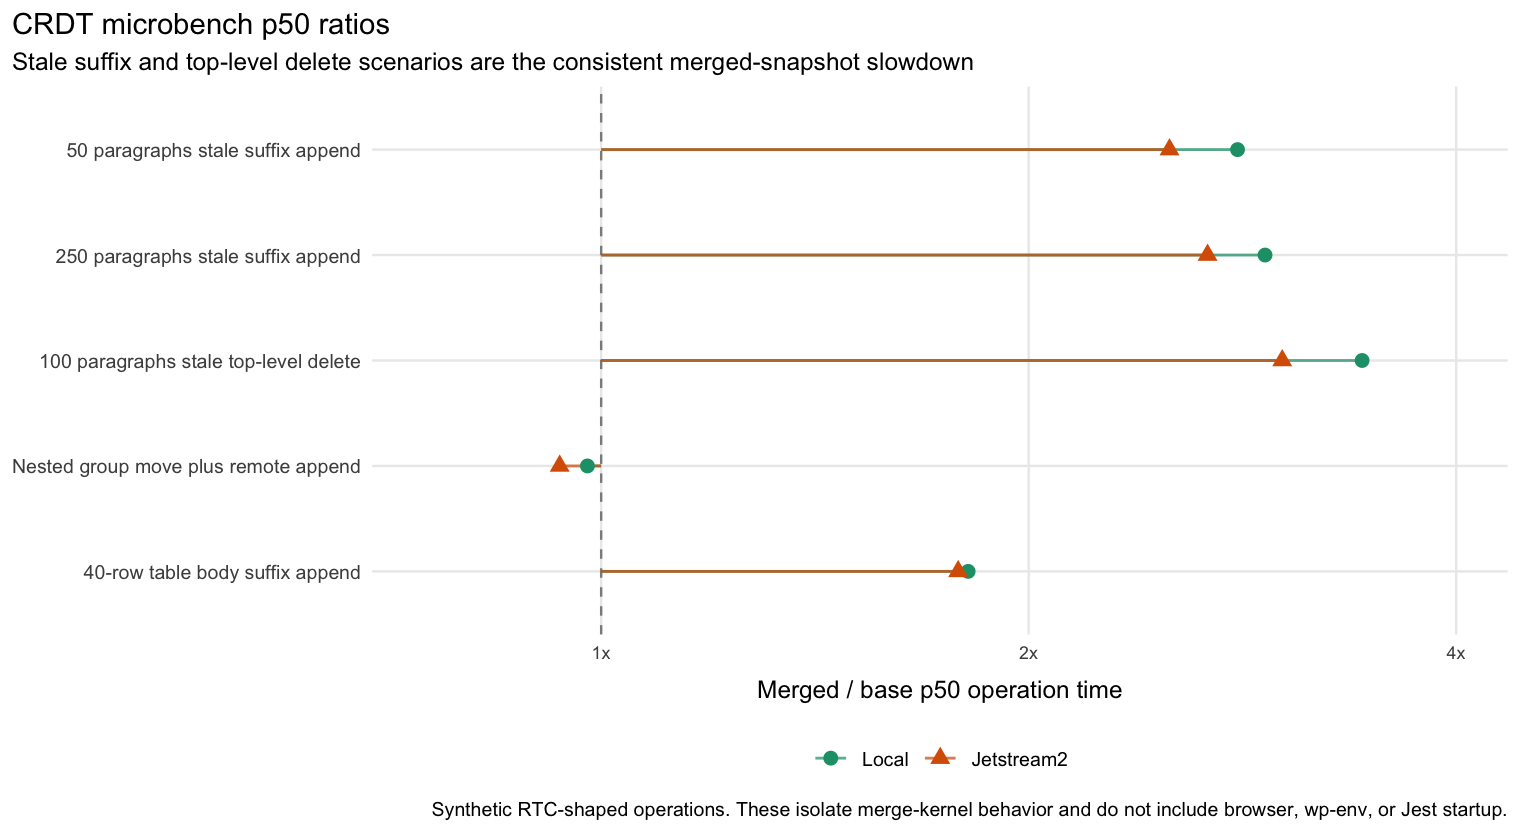
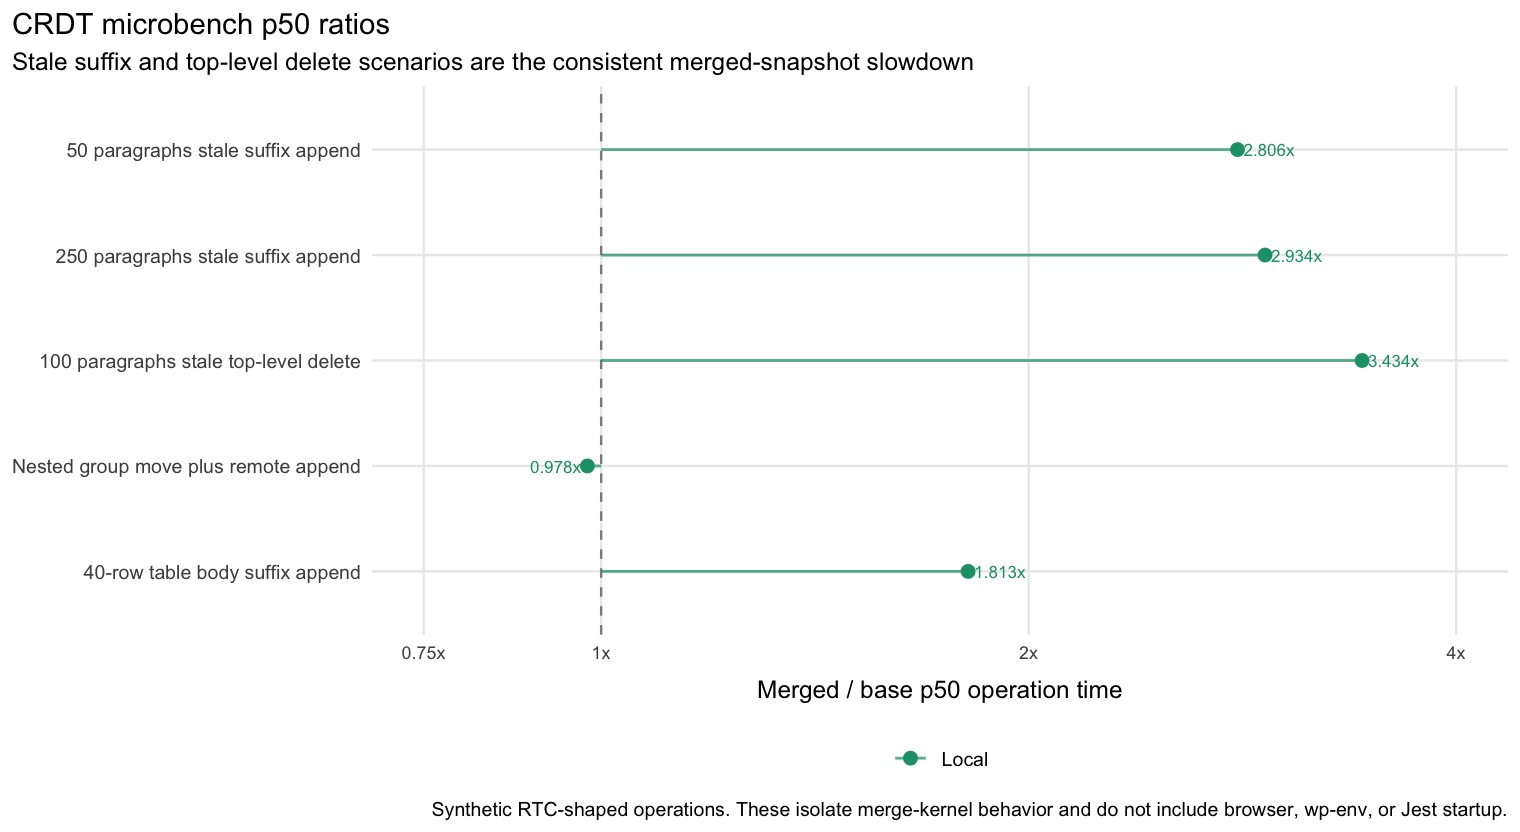
Update RTC benchmark report graphs

diff --git a/docs/explanations/architecture/rtc-local-benchmark-results-20260519.md b/docs/explanations/architecture/rtc-local-benchmark-results-20260519.md
@@ -1,6 +1,6 @@
 # RTC Local Benchmark Results, 2026-05-19
 
-This follows `rtc-less-busy-benchmark-handoff-20260519.md`, but the local run does not preserve Jetstream2's weaker runner structure for comparability. The local runner used balanced ABBA ordering for both lower-level and e2e rows and fixed host-specific wp-env behavior on macOS.
+This follows `rtc-less-busy-benchmark-handoff-20260519.md`, but the local run uses a cleaner runner structure instead of preserving the earlier remote-run ordering. The local runner used balanced ABBA ordering for lower-level, e2e, and many-user rows and fixed host-specific wp-env behavior on macOS.
 
 ## Inputs
 
@@ -15,7 +15,7 @@ Local setup excluded from timed rows: bundle fetch/clone, `npm install`, `compos
 
 ## Benchmark Meanings
 
-The timed rows use three levels:
+The timed rows use four levels:
 
 | row | what it measures |
 | --- | --- |
@@ -26,6 +26,7 @@ The timed rows use three levels:
 | `unit-suite / http-polling-manager` | Targeted HTTP polling manager unit tests. This is correctness plus CI-cost signal, not a pure kernel benchmark. |
 | `e2e / collaboration-code-editor-performance-ws` | Playwright e2e coverage for the collaboration code-editor performance path using the WebSocket sync server. This includes browser, editor, WordPress, and test harness work. |
 | `e2e / collaboration-sync-body-size-http` | Playwright e2e coverage for collaboration sync request body size using the HTTP polling path. This catches payload growth and sync-body behavior in the browser/editor stack. |
+| `multi-user / many-users-sync` | A Jest-hosted synthetic many-user sync benchmark for 100-user payloads, 100-user update queues, and a 1000-room polling window. This isolates client-side sync fan-out work and excludes browser, wp-env, and e2e setup. |
 
 The raw microbenchmark scenarios mean:
 
@@ -42,15 +43,24 @@ The raw microbenchmark scenarios mean:
 | `queue_restore_filters_compactions` | Restore 1000 mixed updates where every tenth item is a compaction update, validating that compactions are filtered out. |
 | `payload_json_20_rooms_200_updates` | Serialize an HTTP polling payload for 20 rooms with 10 updates per room, 200 updates total. |
 | `rotate_window_75_rooms` | Repeatedly rotate a 10-room polling window across 75 rooms. |
+| `server_response_json_100_users_single_room` | Serialize and parse a server sync response for one room with 100 awareness entries and 20 updates. |
+| `batched_disconnect_json_100_users_10_room_batches` | Serialize 100 disconnect room envelopes in 10-room batches, approximating many-user leave/disconnect churn. |
+| `awareness_apply_100_users_10_changed` | Apply a 100-user awareness map with 10 changed users per iteration, including JSON comparison and add/delete map churn. |
+| `queue_take_restore_100_users_100_updates_each` | Exercise 100 per-user update queues, each with 100 updates, by taking a batch, restoring it, then draining the queues. |
+| `rotate_window_1000_rooms_10_slots` | Rotate a 10-slot polling window through 1000 rooms, stressing room-selection bookkeeping for high-room-count clients. |
 
 ## Local Run
 
-Run id: `local-abba-20260519T193459Z`
+Run ids:
+
+- Main lower/unit/e2e run: `local-abba-20260519T193459Z`
+- Many-user sync run: `local-many-users-20260519T200914Z`
 
 Local artifact root:
 
 ```text
 /Users/danluu/dev/fuzz/rtc-benchmark-20260519-local.noindex/results/local-abba-20260519T193459Z
+/Users/danluu/dev/fuzz/rtc-benchmark-20260519-local.noindex/results/local-many-users-20260519T200914Z
 ```
 
 Host and runner notes:
@@ -59,10 +69,12 @@ Host and runner notes:
 - Node `v20.20.2`, npm `10.8.2`, Docker server `29.4.0`.
 - Lower-level order: base rep 1, merged rep 1, merged rep 2, base rep 2.
 - E2E order: base rep 1, merged rep 1, merged rep 2, base rep 2, after prestarting both isolated wp-env instances.
+- Many-user order: base rep 1, merged rep 1, merged rep 2, base rep 2.
 - Local wp-env needed `WP_BASE_URL=http://localhost:<port>`; `127.0.0.1` caused login/REST auth churn on this machine. The WebSocket server stayed on `127.0.0.1`.
 - `RTC_BENCH_LOAD_GATE=off`; macOS load average did not settle because of unrelated background indexing/media work. Per-row load samples were still recorded. Local 1-minute load samples ranged from 16.82 to 31.59, mean 23.39.
+- The many-user run's 1-minute load samples ranged from 8.59 to 19.29, mean 16.24.
 
-All 28 local timed rows exited zero.
+All 32 local timed rows exited zero.
 
 | kind | case | base failures/reps | merged failures/reps | base median s | merged median s | merged/base |
 | --- | --- | ---: | ---: | ---: | ---: | ---: |
@@ -73,6 +85,7 @@ All 28 local timed rows exited zero.
 | unit-suite | http-polling-manager | 0/2 | 0/2 | 1.96 | 1.93 | 0.987 |
 | e2e | collaboration-code-editor-performance-ws | 0/2 | 0/2 | 9.77 | 10.13 | 1.037 |
 | e2e | collaboration-sync-body-size-http | 0/2 | 0/2 | 15.99 | 15.74 | 0.985 |
+| multi-user | many-users-sync | 0/2 | 0/2 | 7.90 | 8.01 | 1.015 |
 
 Local CRDT microbench p50 ratios:
 
@@ -84,62 +97,28 @@ Local CRDT microbench p50 ratios:
 | nested_group_move_with_remote_append | 0.4133 | 0.4042 | 0.978 |
 | table_body_suffix_append_40_rows | 0.3054 | 0.5535 | 1.813 |
 
+Local many-user sync microbench p50 ratios:
+
+| scenario | base p50 ms | merged p50 ms | merged/base | base p95 ms | merged p95 ms | p95 merged/base |
+| --- | ---: | ---: | ---: | ---: | ---: | ---: |
+| server_response_json_100_users_single_room | 0.153229 | 0.154146 | 1.006 | 0.165625 | 0.170729 | 1.031 |
+| batched_disconnect_json_100_users_10_room_batches | 0.021229 | 0.022916 | 1.079 | 0.024000 | 0.025396 | 1.058 |
+| awareness_apply_100_users_10_changed | 0.162396 | 0.162270 | 0.999 | 0.187730 | 0.185750 | 0.989 |
+| queue_take_restore_100_users_100_updates_each | 0.040041 | 0.037042 | 0.925 | 0.075438 | 0.065458 | 0.868 |
+| rotate_window_1000_rooms_10_slots | 0.002042 | 0.002042 | 1.000 | 0.003604 | 0.003771 | 1.046 |
+
 ## Graphs
 
-The plotted data and generator are checked in under `docs/explanations/architecture/rtc-local-benchmark-results-20260519/`. The graphs use `ggplot2` with ColorBrewer scales and the same minimal RTC report style used by the Jetstream2 trend plots.
+The plotted data and generator are checked in under `docs/explanations/architecture/rtc-local-benchmark-results-20260519/`. The graphs use `ggplot2` with ColorBrewer scales and the minimal RTC report style used by the existing benchmark trend plots.
 
-![Local RTC benchmark command medians](rtc-local-benchmark-results-20260519/plots/local-command-medians.png)
-
-![Merged/base elapsed-time ratios](rtc-local-benchmark-results-20260519/plots/merged-base-ratios.png)
+![Local merged/base command ratios](rtc-local-benchmark-results-20260519/plots/local-command-ratios.png)
 
 ![CRDT microbench p50 ratios](rtc-local-benchmark-results-20260519/plots/crdt-microbench-p50-ratios.png)
 
-## Jetstream2 Run
-
-Jetstream2 artifact root:
-
-```text
-/media/volume/danluu-fuzz-data/rtc-benchmark-20260519/results/refined2-20260519T184127Z
-```
-
-Jetstream2 host notes:
-
-- 64 CPU AMD EPYC-Milan VM, 492 GB RAM.
-- Run started with load average 64.48 / 71.71 / 70.63 and active fuzzing continued on the host.
-- Runner used the earlier base-then-merged lower-level order, not the improved local ABBA order.
-- Command prefix was `nice -n 10 ionice -c 2 -n 7`.
-
-Comparable Jetstream2 lower-level rows:
-
-| kind | case | base failures/reps | merged failures/reps | base median s | merged median s | merged/base |
-| --- | --- | ---: | ---: | ---: | ---: | ---: |
-| lower | micro-crdt | 0/3 | 0/3 | 20.87 | 29.55 | 1.416 |
-| lower | micro-html | 0/3 | 0/3 | 5.08 | 4.85 | 0.955 |
-| lower | micro-sync | 0/3 | 0/3 | 13.10 | 12.47 | 0.952 |
-| unit-suite | http-polling-manager | 0/2 | 0/2 | 4.81 | 4.18 | 0.869 |
-
-Jetstream2 rows not usable for performance comparison:
-
-| row | result | reason |
-| --- | --- | --- |
-| base unit-suite crdt-stale-top-level | 2/2 failures | missing `framer-motion` in the base worktree dependency environment |
-| base e2e WS | exit 1 after 4.71 s | `ws` CommonJS named export failure while starting the WS test server |
-| merged e2e WS | exit 1 after 4.25 s | health port already in use |
-| base e2e HTTP | exit 124 after 1800.03 s | timed out |
-| merged e2e HTTP | exit 124 after 1800.02 s | timed out |
-
-Jetstream2 CRDT microbench p50 ratios:
-
-| scenario | base p50 ms | merged p50 ms | merged/base |
-| --- | ---: | ---: | ---: |
-| small_stale_suffix_append_50 | 0.7444 | 1.8710 | 2.513 |
-| large_stale_suffix_append_250 | 4.0869 | 10.9234 | 2.673 |
-| stale_top_level_delete_100 | 16.1081 | 48.5926 | 3.017 |
-| nested_group_move_with_remote_append | 1.1875 | 1.1107 | 0.935 |
-| table_body_suffix_append_40_rows | 0.7936 | 1.4154 | 1.784 |
+![Many-user sync microbench p50 ratios](rtc-local-benchmark-results-20260519/plots/many-user-sync-p50-ratios.png)
 
 ## Readout
 
-The local run is the cleaner run for end-to-end correctness and timing because it used balanced ABBA order and all rows passed. It shows no meaningful e2e regression: WS e2e was +3.7% and HTTP e2e was -1.5% for merged versus base. The synthetic CRDT stale/suffix scenarios are consistently slower in the merged snapshot, around 1.8x to 3.4x by p50 depending on scenario. HTML-equivalence and HTTP-polling microbenches were effectively neutral.
+The local run is the cleanest run for end-to-end correctness and timing because it used balanced ABBA order and all rows passed. It shows no meaningful e2e regression: WS e2e was +3.7% and HTTP e2e was -1.5% for merged versus base. The synthetic CRDT stale/suffix scenarios are consistently slower in the merged snapshot, around 1.8x to 3.4x by p50 depending on scenario.
 
-Jetstream2 lower-level microbench ratios agree with the local direction for CRDT-heavy scenarios, especially stale top-level delete and stale suffix append. Jetstream2 e2e rows should be treated as infrastructure failures, not benchmark evidence.
+HTML-equivalence and HTTP-polling microbenches were effectively neutral. The many-user sync benchmark was also near neutral overall: the aggregate elapsed-time ratio was 1.015x, p50 ratios ranged from 0.925x to 1.079x, awareness apply was 0.999x, and 1000-room window rotation was 1.000x.
